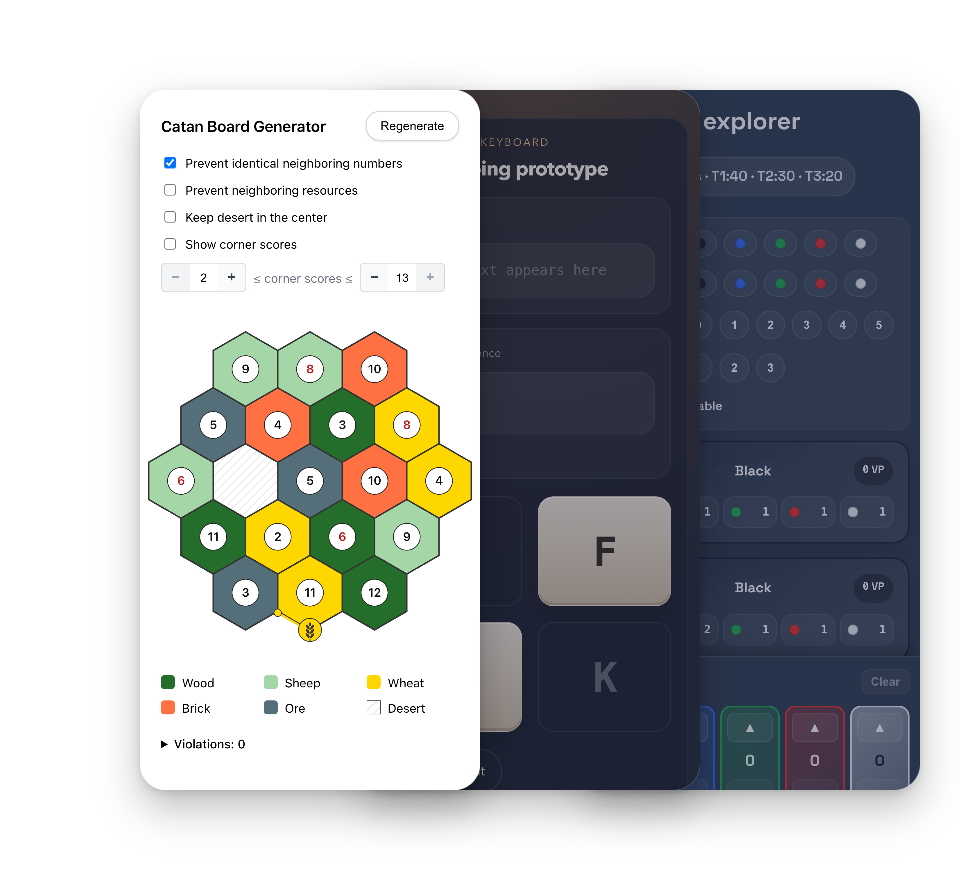
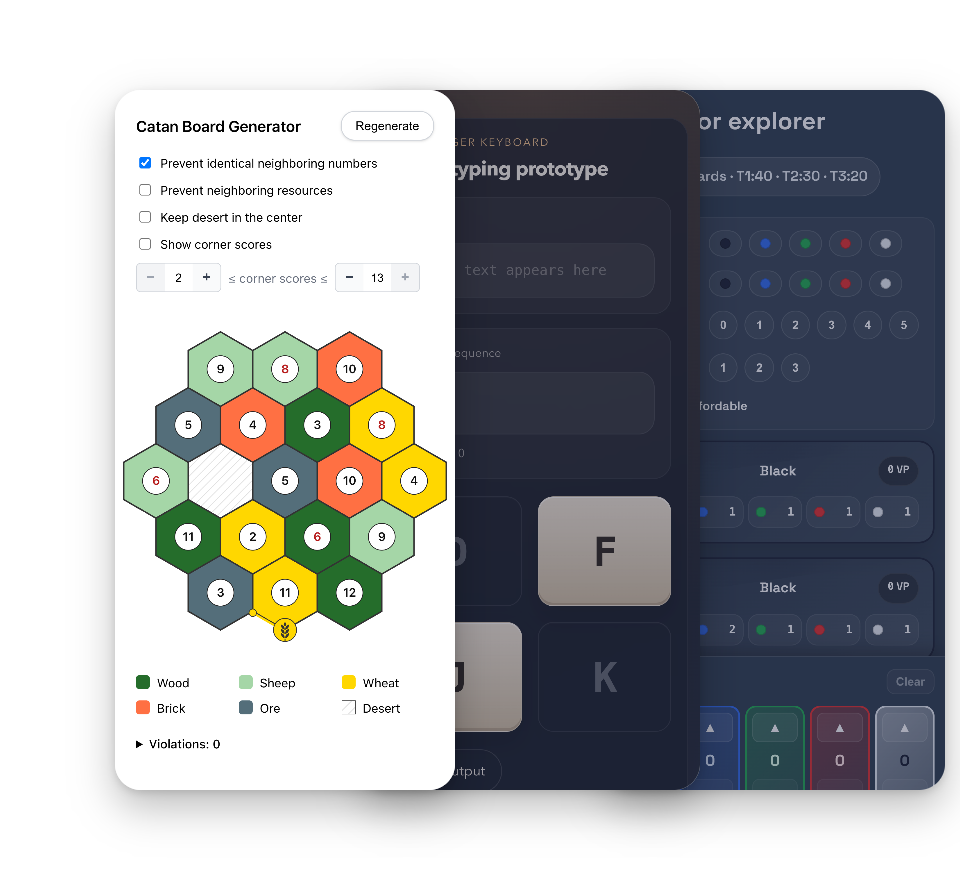
eased the Kafagöz overlap and fixed the name
- overlap step 220 -> 245, so 95px tucks under instead of 120
- Kafagoz -> Kafagöz in the title and body

diff --git a/works/kafagoz/index.md b/works/kafagoz/index.md
@@ -1,5 +1,5 @@
 ---
-title: 'Kafagoz'
+title: 'Kafagöz'
 date: 2026-01-01
 services: 'Front-end development, UI/UX design'
 tech: 'React, CSS3'
@@ -7,6 +7,6 @@ website: 'https://kafagoz.com'
 featuredImg: '/kafagoz/preview.png'
 backgroundColor: "#2F3350"
 ---
-Kafagoz is where I keep my small experiments. Each one starts as a question and ends up as a page I can share.
+Kafagöz is where I keep my small experiments. Each one starts as a question and ends up as a page I can share.
 
 A few of them: a four-key chord keyboard that types letters from finger patterns, a Catan board generator with pip and adjacency rules, a Splendor card explorer that shows what your gem hand can afford, and a free fall simulator that drops two balls off the Galata Tower.
